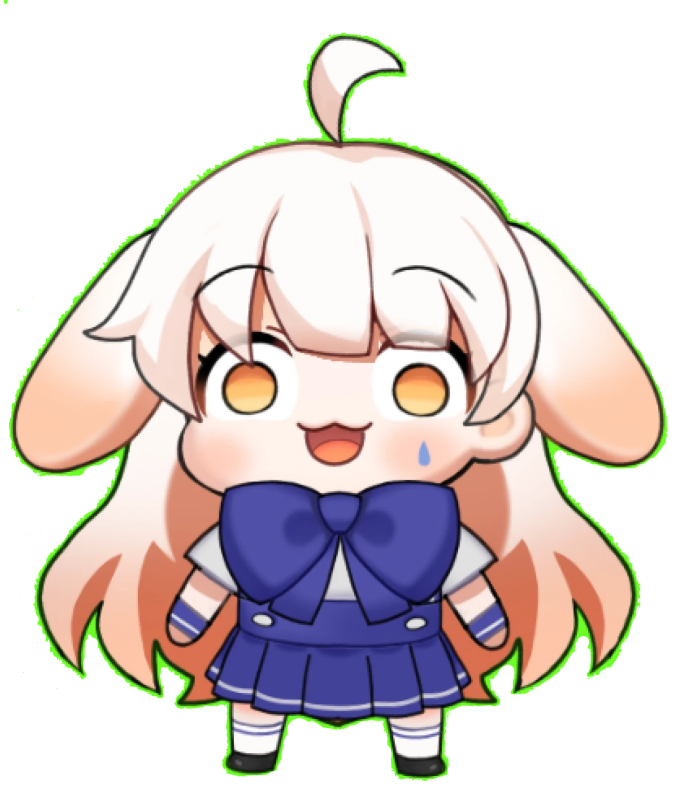
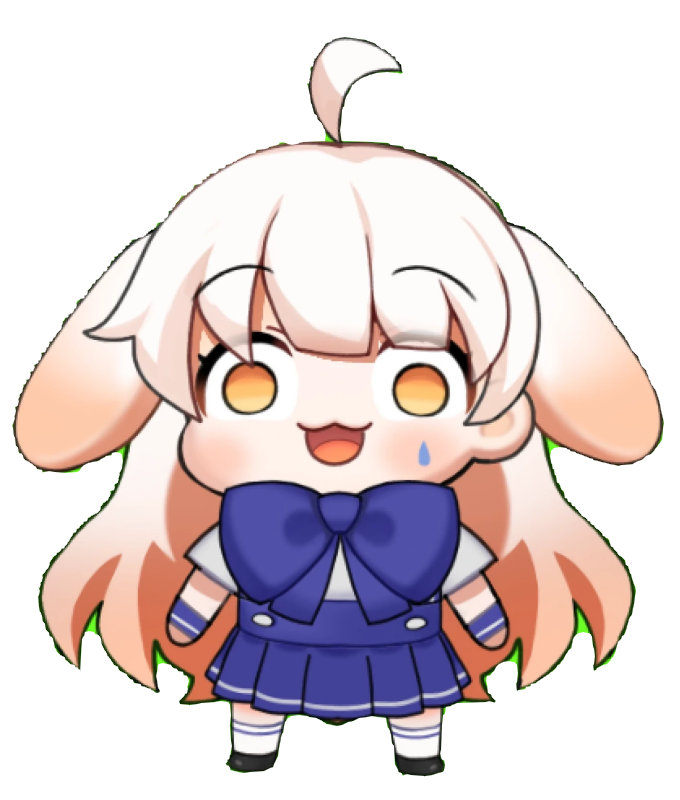
이미지를 실행화면에서도 표시되도록 수정하였어요

diff --git a/MainWindow.xaml b/MainWindow.xaml
@@ -11,7 +11,13 @@
             <ColumnDefinition />
         </Grid.ColumnDefinitions>
         <Border BorderBrush="Green" BorderThickness="4" Height="814" VerticalAlignment="Center" Margin="10,10,10,10">
-            <Image HorizontalAlignment="Left" Height="289" VerticalAlignment="Top" Width="294" RenderTransformOrigin="-4.127,0.425" Margin="6,6,0,0" Name="MainIcon"/>
+            <StackPanel HorizontalAlignment="Left" Margin="6,6,0,0" Orientation="Vertical" VerticalAlignment="Top">
+                <Image Height="300" Width="300" RenderTransformOrigin="-4.127,0.425" x:Name="MainIcon" Source="/radiyuSD.png" Stretch="Fill" Cursor="Arrow">
+                    <Image.OpacityMask>
+                        <ImageBrush ImageSource="/radiyuSD.png" TileMode="Tile" Opacity="1"/>
+                    </Image.OpacityMask>
+                </Image>
+            </StackPanel>
         </Border>
 
     </Grid>

diff --git a/Properties/Resources.Designer.cs b/Properties/Resources.Designer.cs
@@ -10,6 +10,7 @@
 
 namespace WpfSimpleCal.Properties {
     using System;
+    using System.Windows.Media.Imaging;
     
     
     /// <summary>
@@ -22,7 +23,7 @@ namespace WpfSimpleCal.Properties {
     [global::System.CodeDom.Compiler.GeneratedCodeAttribute("System.Resources.Tools.StronglyTypedResourceBuilder", "17.0.0.0")]
     [global::System.Diagnostics.DebuggerNonUserCodeAttribute()]
     [global::System.Runtime.CompilerServices.CompilerGeneratedAttribute()]
-    public class Resources {
+    internal class Resources {
         
         private static global::System.Resources.ResourceManager resourceMan;
         
@@ -36,7 +37,7 @@ namespace WpfSimpleCal.Properties {
         ///   이 클래스에서 사용하는 캐시된 ResourceManager 인스턴스를 반환합니다.
         /// </summary>
         [global::System.ComponentModel.EditorBrowsableAttribute(global::System.ComponentModel.EditorBrowsableState.Advanced)]
-        public static global::System.Resources.ResourceManager ResourceManager {
+        internal static global::System.Resources.ResourceManager ResourceManager {
             get {
                 if (object.ReferenceEquals(resourceMan, null)) {
                     global::System.Resources.ResourceManager temp = new global::System.Resources.ResourceManager("WpfSimpleCal.Properties.Resources", typeof(Resources).Assembly);
@@ -51,7 +52,7 @@ namespace WpfSimpleCal.Properties {
         ///   재정의합니다.
         /// </summary>
         [global::System.ComponentModel.EditorBrowsableAttribute(global::System.ComponentModel.EditorBrowsableState.Advanced)]
-        public static global::System.Globalization.CultureInfo Culture {
+        internal static global::System.Globalization.CultureInfo Culture {
             get {
                 return resourceCulture;
             }
@@ -61,12 +62,12 @@ namespace WpfSimpleCal.Properties {
         }
         
         /// <summary>
-        ///   System.Drawing.Bitmap 형식의 지역화된 리소스를 찾습니다.
+        ///   System.Windows.Media.Imaging.BitmapImage 형식의 지역화된 리소스를 찾습니다.
         /// </summary>
-        public static System.Drawing.Bitmap radiyuSD {
+        internal static BitmapImage radiyuSD {
             get {
                 object obj = ResourceManager.GetObject("radiyuSD", resourceCulture);
-                return ((System.Drawing.Bitmap)(obj));
+                return obj as BitmapImage;
             }
         }
     }

diff --git a/MainWindow.xaml.cs b/MainWindow.xaml.cs
@@ -20,7 +20,7 @@ namespace WpfSimpleCal
         public MainWindow()
         {
             InitializeComponent();
-            MainIcon.Source = new BitmapImage(new Uri("pack://application:,,,/Resources/radiyuSD"));
+            MainIcon.Source = new BitmapImage(new Uri("/radiyuSD.png", UriKind.RelativeOrAbsolute));
         }
     }
 }
